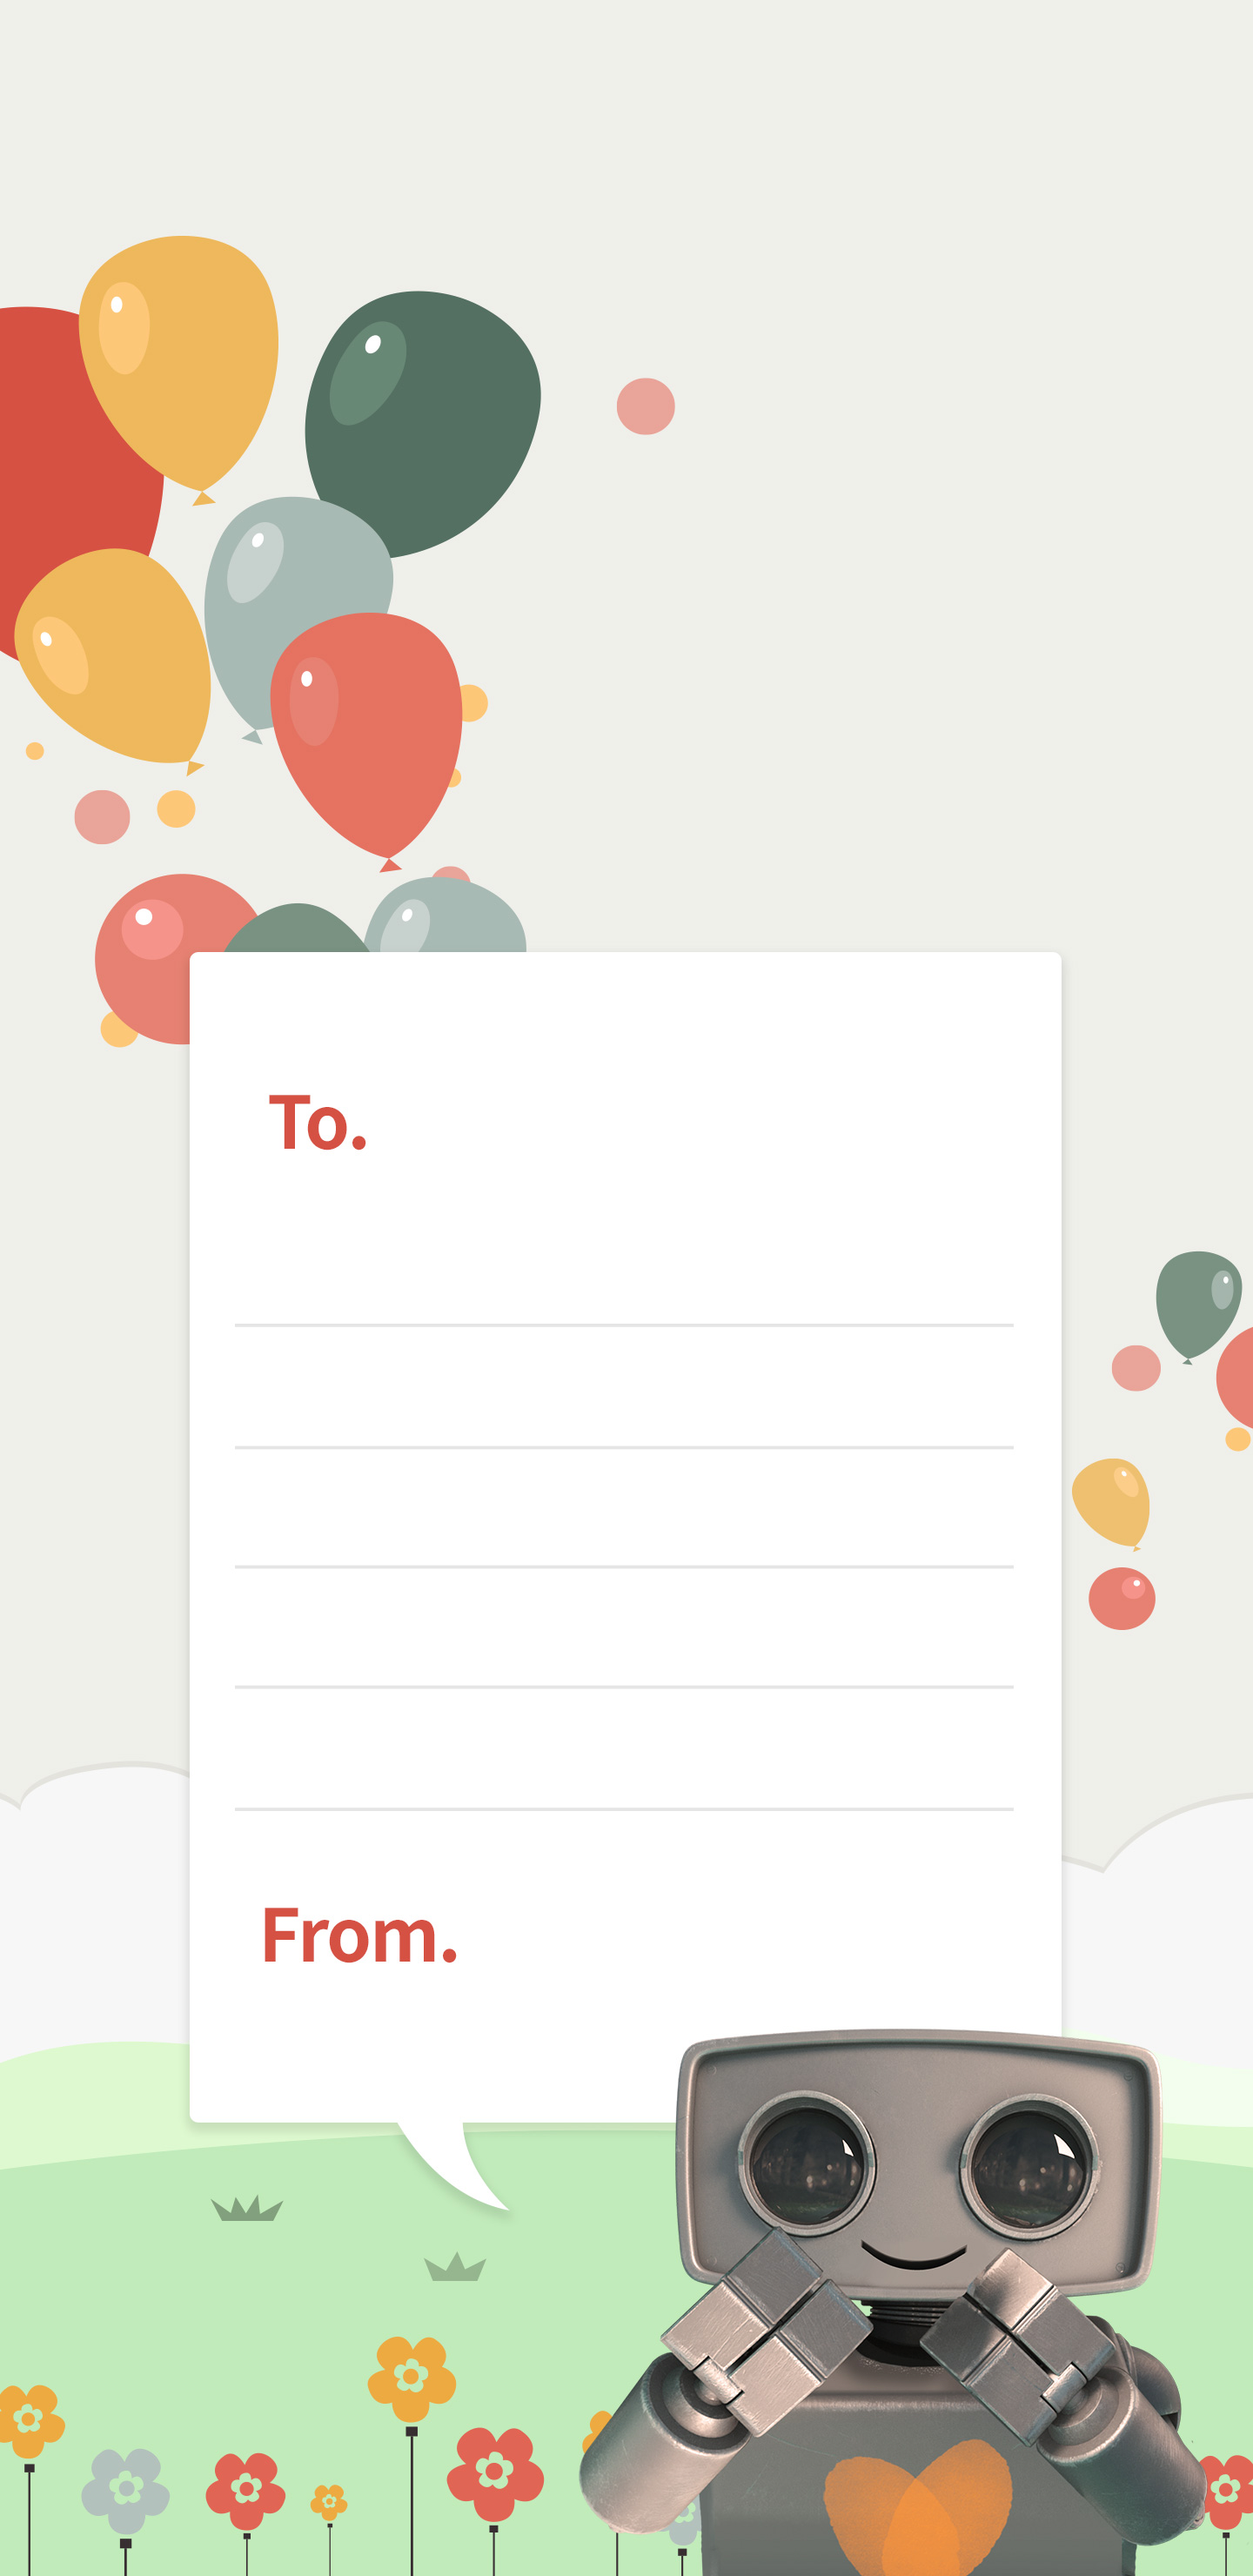
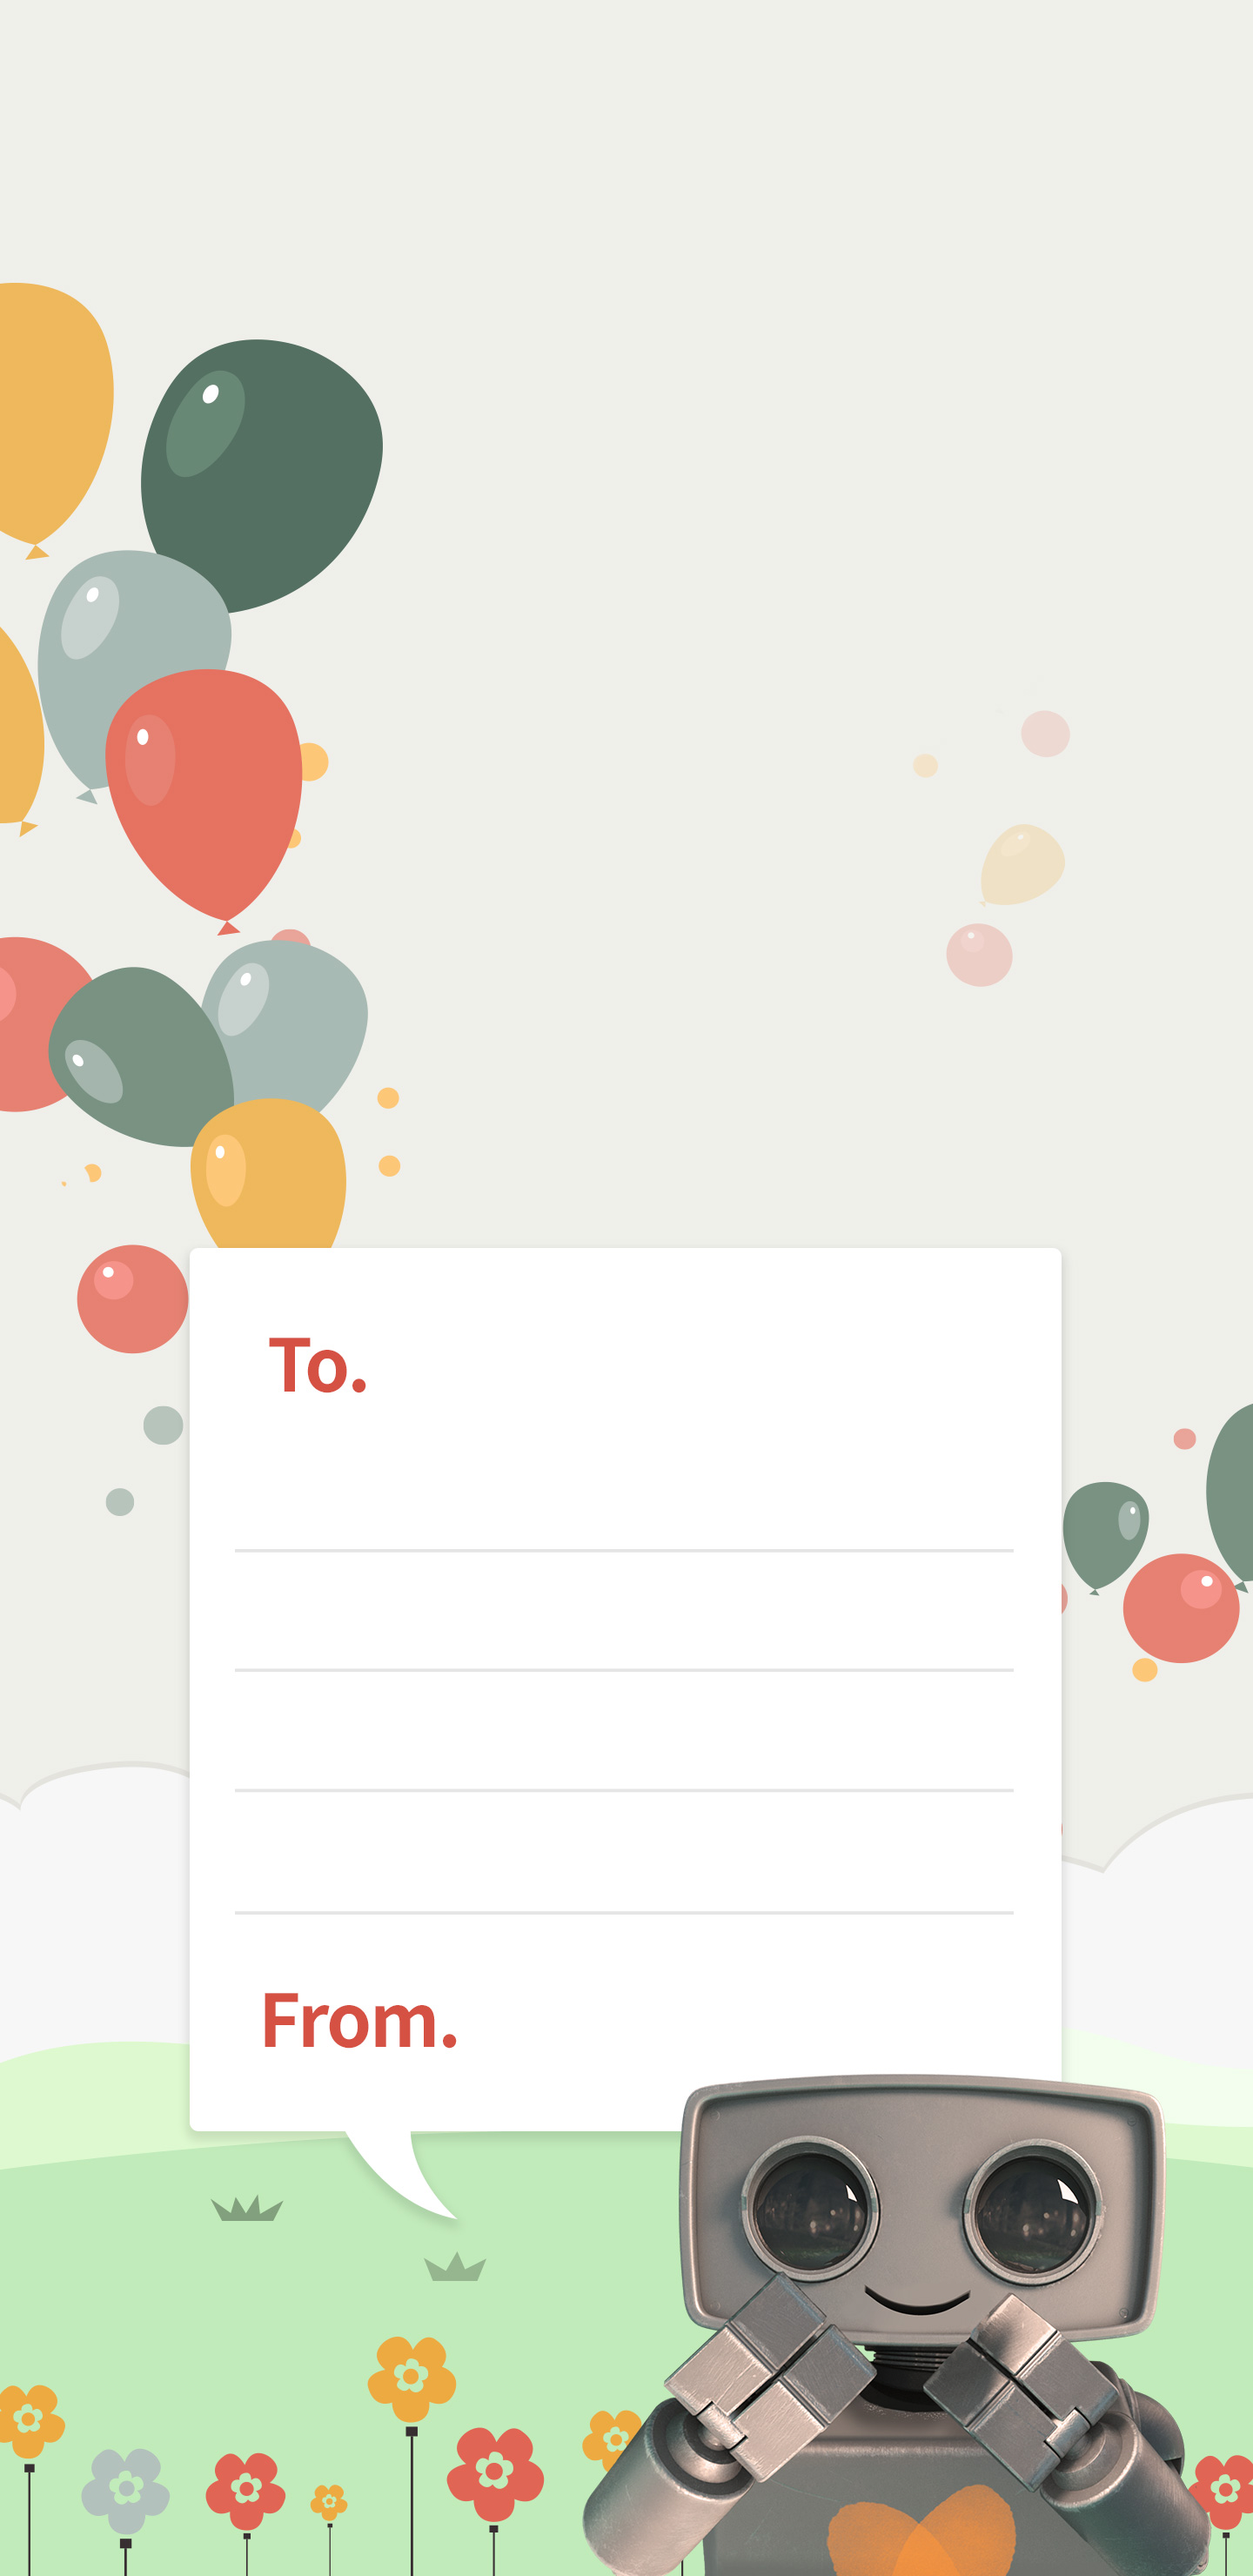
11111

diff --git a/main_exec.php b/main_exec.php
@@ -98,7 +98,8 @@ switch ($_REQUEST['exec'])
                     $box->setFontFace('./lib/gd-text/asset/font/nanumBold.ttf');
                     $box->setFontColor(new Color(62, 48, 29));
                     $box->setFontSize(70);
-                    $box->setBox(284, 821, 700, 0);
+                    // $box->setBox(284, 821, 700, 0);
+                    $box->setBox(284, 1165, 700, 0);
                     $box->setTextAlign('left', 'center');
                     $box->draw($BgTo);
                     
@@ -107,7 +108,8 @@ switch ($_REQUEST['exec'])
                     $box->setFontFace('./lib/gd-text/asset/font/nanumBold.ttf');
                     $box->setFontColor(new Color(62, 48, 29));
                     $box->setFontSize(70);
-                    $box->setBox(402, 1760, 700, 0);
+                    // $box->setBox(402, 1760, 700, 0);
+                    $box->setBox(402, 1916, 700, 0);
                     $box->setTextAlign('left', 'center');
                     $box->draw($BgFrom);
                     
@@ -115,7 +117,7 @@ switch ($_REQUEST['exec'])
                     $box->setFontFace('./lib/gd-text/asset/font/nanumBold.ttf');
                     $box->setFontSize(70);
                     $box->setFontColor(new Color(62, 48, 29));
-                    $box->setBox(135, 1005, 860, 0);
+                    $box->setBox(135, 1335, 860, 0);
                     $box->setTextAlign('center', 'center');
                     $box->draw($BgMsg1);
                     
@@ -123,7 +125,7 @@ switch ($_REQUEST['exec'])
                     $box->setFontFace('./lib/gd-text/asset/font/nanumBold.ttf');
                     $box->setFontSize(70);
                     $box->setFontColor(new Color(62, 48, 29));
-                    $box->setBox(135, 1145, 860, 0);
+                    $box->setBox(135, 1475, 860, 0);
                     $box->setTextAlign('center', 'center');
                     // $box->setBackgroundColor(new Color(255, 86, 77));
                     $box->draw($BgMsg2);
@@ -132,7 +134,8 @@ switch ($_REQUEST['exec'])
                     $box->setFontFace('./lib/gd-text/asset/font/nanumBold.ttf');
                     $box->setFontSize(70);
                     $box->setFontColor(new Color(62, 48, 29));
-                    $box->setBox(135, 1285, 860, 0);
+                    // $box->setBox(135, 1285, 860, 0);
+                    $box->setBox(135, 1615, 860, 0);
                     $box->setTextAlign('center', 'center');
                     $box->draw($BgMsg3);
                     
@@ -140,7 +143,8 @@ switch ($_REQUEST['exec'])
                     $box->setFontFace('./lib/gd-text/asset/font/nanumBold.ttf');
                     $box->setFontSize(70);
                     $box->setFontColor(new Color(62, 48, 29));
-                    $box->setBox(135, 1425, 860, 0);
+                    // $box->setBox(135, 1425, 860, 0);
+                    $box->setBox(135, 1755, 860, 0);
                     $box->setTextAlign('center', 'center');
                     $box->draw($BgMsg4);
                     
@@ -160,7 +164,8 @@ switch ($_REQUEST['exec'])
                     $box->setFontFace('./lib/gd-text/asset/font/nanumBold.ttf');
                     $box->setFontColor(new Color(62, 48, 29));
                     $box->setFontSize(70);
-                    $box->setBox(428, 886, 700, 0);
+                    // $box->setBox(428, 886, 700, 0);
+                    $box->setBox(428, 1162, 700, 0);
                     $box->setTextAlign('left', 'center');
                     $box->draw($BgTo);
                     
@@ -169,7 +174,8 @@ switch ($_REQUEST['exec'])
                     $box->setFontFace('./lib/gd-text/asset/font/nanumBold.ttf');
                     $box->setFontColor(new Color(62, 48, 29));
                     $box->setFontSize(70);
-                    $box->setBox(546, 1825, 700, 0);
+                    // $box->setBox(546, 1825, 700, 0);
+                    $box->setBox(546, 1913, 700, 0);
                     $box->setTextAlign('left', 'center');
                     $box->draw($BgFrom);
                     
@@ -177,7 +183,8 @@ switch ($_REQUEST['exec'])
                     $box->setFontFace('./lib/gd-text/asset/font/nanumBold.ttf');
                     $box->setFontSize(70);
                     $box->setFontColor(new Color(62, 48, 29));
-                    $box->setBox(280, 1070, 860, 0);
+                    // $box->setBox(280, 1070, 860, 0);
+                    $box->setBox(280, 1331, 860, 0);
                     $box->setTextAlign('center', 'center');
                     $box->draw($BgMsg1);
                     
@@ -185,7 +192,8 @@ switch ($_REQUEST['exec'])
                     $box->setFontFace('./lib/gd-text/asset/font/nanumBold.ttf');
                     $box->setFontSize(70);
                     $box->setFontColor(new Color(62, 48, 29));
-                    $box->setBox(280, 1210, 860, 0);
+                    // $box->setBox(280, 1210, 860, 0);
+                    $box->setBox(280, 1471, 860, 0);
                     $box->setTextAlign('center', 'center');
                     // $box->setBackgroundColor(new Color(255, 86, 77));
                     $box->draw($BgMsg2);
@@ -194,7 +202,8 @@ switch ($_REQUEST['exec'])
                     $box->setFontFace('./lib/gd-text/asset/font/nanumBold.ttf');
                     $box->setFontSize(70);
                     $box->setFontColor(new Color(62, 48, 29));
-                    $box->setBox(280, 1350, 860, 0);
+                    // $box->setBox(280, 1350, 860, 0);
+                    $box->setBox(280, 1611, 860, 0);
                     $box->setTextAlign('center', 'center');
                     $box->draw($BgMsg3);
                     
@@ -202,7 +211,8 @@ switch ($_REQUEST['exec'])
                     $box->setFontFace('./lib/gd-text/asset/font/nanumBold.ttf');
                     $box->setFontSize(70);
                     $box->setFontColor(new Color(62, 48, 29));
-                    $box->setBox(280, 1490, 860, 0);
+                    // $box->setBox(280, 1490, 860, 0);
+                    $box->setBox(280, 1751, 860, 0);
                     $box->setTextAlign('center', 'center');
                     $box->draw($BgMsg4);
                     
@@ -222,7 +232,8 @@ switch ($_REQUEST['exec'])
                     $box->setFontFace('./lib/gd-text/asset/font/nanumBold.ttf');
                     $box->setFontColor(new Color(62, 48, 29));
                     $box->setFontSize(70);
-                    $box->setBox(428, 1201, 700, 0);
+                    // $box->setBox(428, 1201, 700, 0);
+                    $box->setBox(428, 1478, 700, 0);
                     $box->setTextAlign('left', 'center');
                     $box->draw($BgTo);
                     
@@ -231,7 +242,8 @@ switch ($_REQUEST['exec'])
                     $box->setFontFace('./lib/gd-text/asset/font/nanumBold.ttf');
                     $box->setFontColor(new Color(62, 48, 29));
                     $box->setFontSize(70);
-                    $box->setBox(546, 2140, 700, 0);
+                    // $box->setBox(546, 2140, 700, 0);
+                    $box->setBox(546, 2232, 700, 0);
                     $box->setTextAlign('left', 'center');
                     $box->draw($BgFrom);
                     
@@ -239,7 +251,7 @@ switch ($_REQUEST['exec'])
                     $box->setFontFace('./lib/gd-text/asset/font/nanumBold.ttf');
                     $box->setFontSize(70);
                     $box->setFontColor(new Color(62, 48, 29));
-                    $box->setBox(280, 1385, 860, 0);
+                    $box->setBox(280, 1653, 860, 0);
                     $box->setTextAlign('center', 'center');
                     $box->draw($BgMsg1);
                     
@@ -247,7 +259,7 @@ switch ($_REQUEST['exec'])
                     $box->setFontFace('./lib/gd-text/asset/font/nanumBold.ttf');
                     $box->setFontSize(70);
                     $box->setFontColor(new Color(62, 48, 29));
-                    $box->setBox(280, 1525, 860, 0);
+                    $box->setBox(280, 1791, 860, 0);
                     $box->setTextAlign('center', 'center');
                     // $box->setBackgroundColor(new Color(255, 86, 77));
                     $box->draw($BgMsg2);
@@ -256,7 +268,7 @@ switch ($_REQUEST['exec'])
                     $box->setFontFace('./lib/gd-text/asset/font/nanumBold.ttf');
                     $box->setFontSize(70);
                     $box->setFontColor(new Color(62, 48, 29));
-                    $box->setBox(280, 1665, 860, 0);
+                    $box->setBox(280, 1931, 860, 0);
                     $box->setTextAlign('center', 'center');
                     $box->draw($BgMsg3);
                     
@@ -264,7 +276,7 @@ switch ($_REQUEST['exec'])
                     $box->setFontFace('./lib/gd-text/asset/font/nanumBold.ttf');
                     $box->setFontSize(70);
                     $box->setFontColor(new Color(62, 48, 29));
-                    $box->setBox(280, 1805, 860, 0);
+                    $box->setBox(280, 2071, 860, 0);
                     $box->setTextAlign('center', 'center');
                     $box->draw($BgMsg4);
                     
@@ -284,7 +296,7 @@ switch ($_REQUEST['exec'])
                     $box->setFontFace('./lib/gd-text/asset/font/nanumBold.ttf');
                     $box->setFontColor(new Color(62, 48, 29));
                     $box->setFontSize(70);
-                    $box->setBox(428, 1286, 700, 0);
+                    $box->setBox(428, 1556, 700, 0);
                     $box->setTextAlign('left', 'center');
                     $box->draw($BgTo);
                     
@@ -293,7 +305,7 @@ switch ($_REQUEST['exec'])
                     $box->setFontFace('./lib/gd-text/asset/font/nanumBold.ttf');
                     $box->setFontColor(new Color(62, 48, 29));
                     $box->setFontSize(70);
-                    $box->setBox(546, 2225, 700, 0);
+                    $box->setBox(546, 2309, 700, 0);
                     $box->setTextAlign('left', 'center');
                     $box->draw($BgFrom);
                     
@@ -301,7 +313,7 @@ switch ($_REQUEST['exec'])
                     $box->setFontFace('./lib/gd-text/asset/font/nanumBold.ttf');
                     $box->setFontSize(70);
                     $box->setFontColor(new Color(62, 48, 29));
-                    $box->setBox(280, 1470, 860, 0);
+                    $box->setBox(280, 1733, 860, 0);
                     $box->setTextAlign('center', 'center');
                     $box->draw($BgMsg1);
                     
@@ -309,7 +321,7 @@ switch ($_REQUEST['exec'])
                     $box->setFontFace('./lib/gd-text/asset/font/nanumBold.ttf');
                     $box->setFontSize(70);
                     $box->setFontColor(new Color(62, 48, 29));
-                    $box->setBox(280, 1610, 860, 0);
+                    $box->setBox(280, 1873, 860, 0);
                     $box->setTextAlign('center', 'center');
                     // $box->setBackgroundColor(new Color(255, 86, 77));
                     $box->draw($BgMsg2);
@@ -318,7 +330,7 @@ switch ($_REQUEST['exec'])
                     $box->setFontFace('./lib/gd-text/asset/font/nanumBold.ttf');
                     $box->setFontSize(70);
                     $box->setFontColor(new Color(62, 48, 29));
-                    $box->setBox(280, 1750, 860, 0);
+                    $box->setBox(280, 2013, 860, 0);
                     $box->setTextAlign('center', 'center');
                     $box->draw($BgMsg3);
                     
@@ -326,7 +338,7 @@ switch ($_REQUEST['exec'])
                     $box->setFontFace('./lib/gd-text/asset/font/nanumBold.ttf');
                     $box->setFontSize(70);
                     $box->setFontColor(new Color(62, 48, 29));
-                    $box->setBox(280, 1890, 860, 0);
+                    $box->setBox(280, 2153, 860, 0);
                     $box->setTextAlign('center', 'center');
                     $box->draw($BgMsg4);
                     

diff --git a/sub3.php b/sub3.php
@@ -127,11 +127,11 @@
 					change_rs_img = "./files/" + localStorage.serial + "/maumbot_cheerup" + that.val() + ".jpg";
 				else if (localStorage.type == 5)
 					change_rs_img = "./files/" + localStorage.serial + "/maumbot_dontworry" + that.val() + ".jpg";
-				// $('.btn-area._3 button').attr("onclick","downloadImg('"+change_rs_img+"')");
 
 				if ($("#"+that.attr('id')).is(":checked") === true)
 				{
 					$(".select-box img").attr("src","./images/sub_step3_select" + that.val() + ".png");
+					$('.btn-area._3 button').attr("onclick","downloadImg('"+change_rs_img+"')");
 				}
 
 
